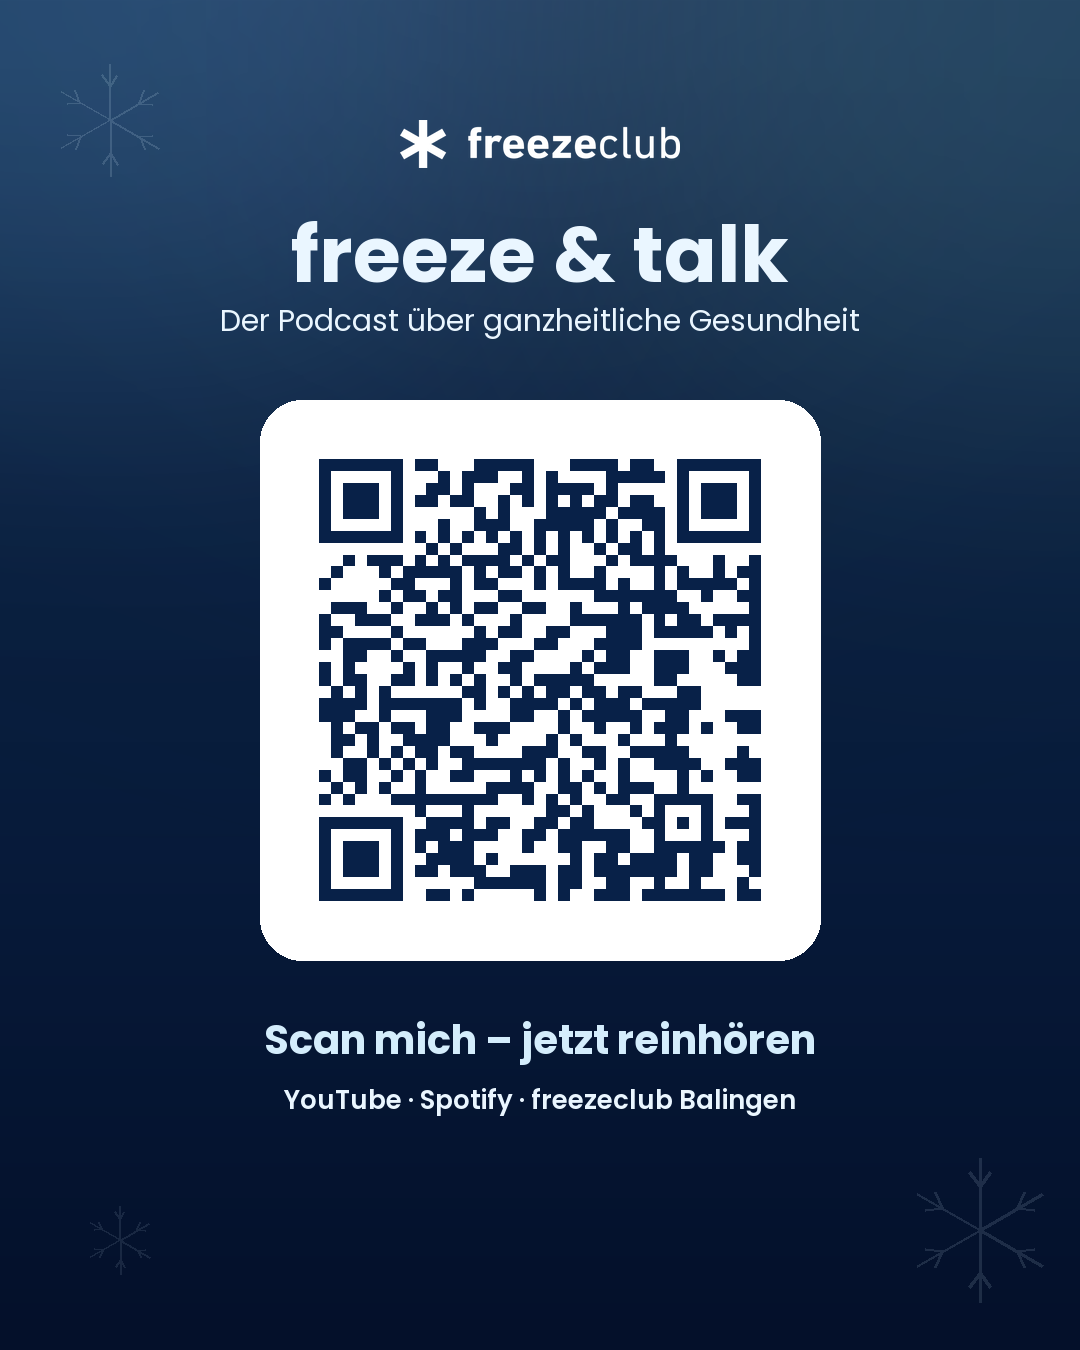
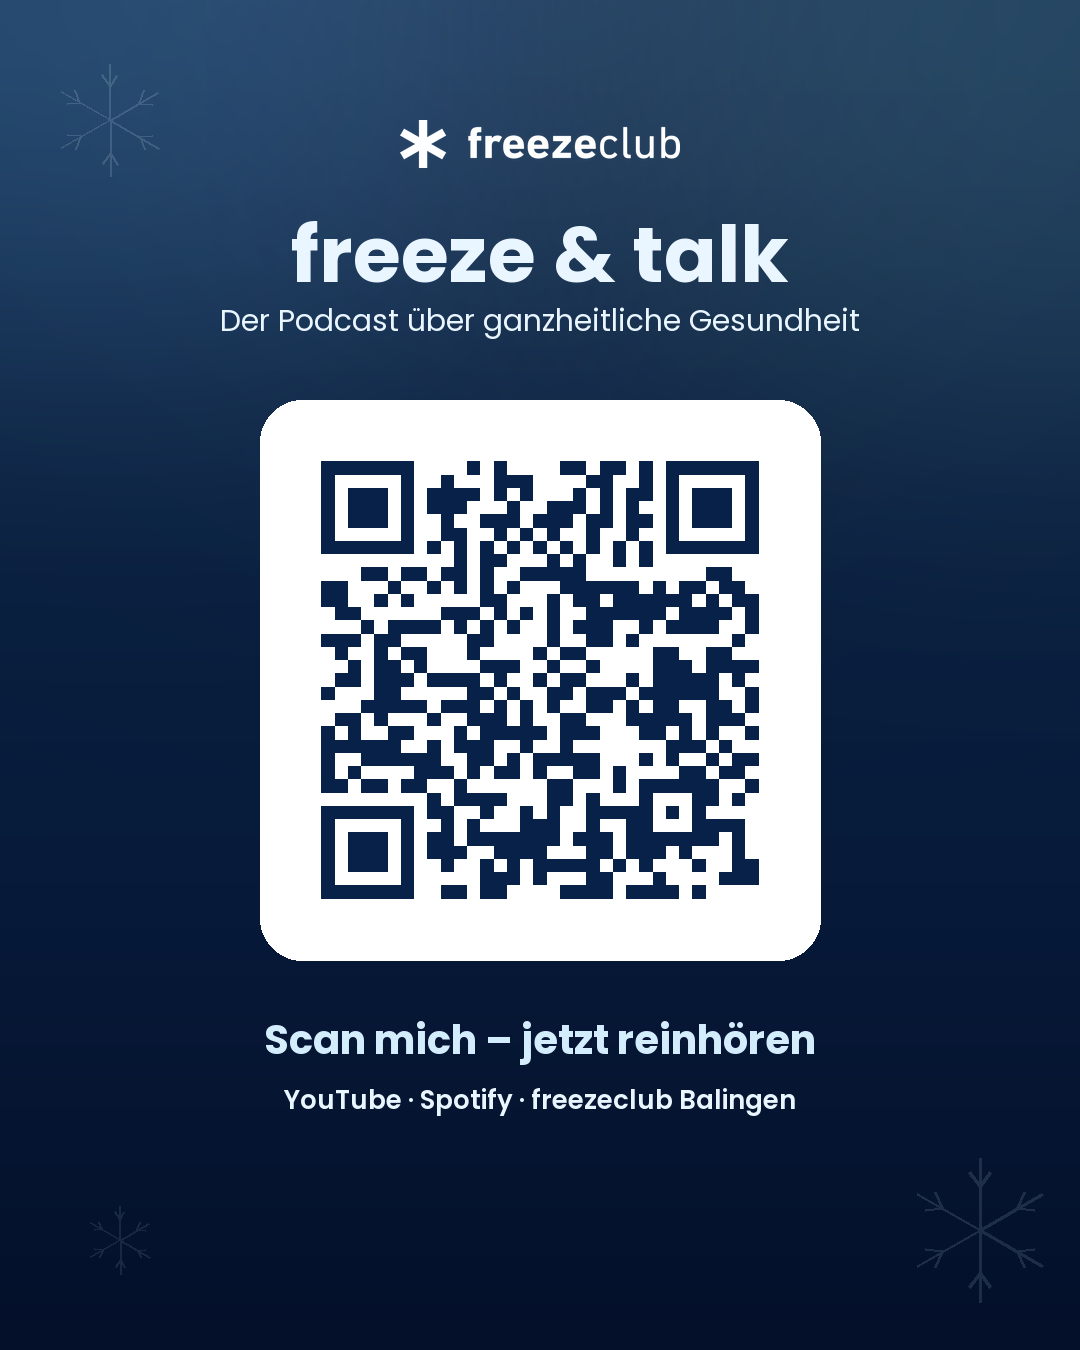
Meta-Tags & QR auf finale URL (freezeclub.github.io)

Changed region(s): [[0.275, 0.3422, 0.7028, 0.6844]]

diff --git a/index.html b/index.html
@@ -10,22 +10,18 @@
 <meta name="apple-mobile-web-app-status-bar-style" content="black-translucent" />
 <meta name="format-detection" content="telephone=no" />
 
-<!-- ============================================================= -->
-<!--  TEILEN-VORSCHAU (Instagram / WhatsApp / Facebook ...)         -->
-<!--  WICHTIG: og:image & og:url nach dem Hochladen auf die         -->
-<!--  ECHTE absolute Domain umstellen, z.B.                          -->
-<!--  https://link.freezeclub.de/assets/og-image.png                -->
-<!-- ============================================================= -->
+<!-- Teilen-Vorschau (Instagram / WhatsApp / Facebook ...) -->
 <meta property="og:title" content="freeze & talk – Der Podcast" />
 <meta property="og:description" content="Der Podcast über ganzheitliche Gesundheit aus dem freezeclub Balingen. Neue Folgen auf YouTube & Spotify." />
 <meta property="og:type" content="website" />
-<meta property="og:image" content="assets/og-image.png" />
+<meta property="og:url" content="https://freezeclub.github.io/" />
+<meta property="og:image" content="https://freezeclub.github.io/assets/og-image.png" />
 <meta property="og:image:width" content="1200" />
 <meta property="og:image:height" content="630" />
 <meta name="twitter:card" content="summary_large_image" />
 <meta name="twitter:title" content="freeze & talk – Der Podcast" />
 <meta name="twitter:description" content="Der Podcast aus dem freezeclub Balingen. Neue Folgen auf YouTube & Spotify." />
-<meta name="twitter:image" content="assets/og-image.png" />
+<meta name="twitter:image" content="https://freezeclub.github.io/assets/og-image.png" />
 
 <link rel="preconnect" href="https://fonts.googleapis.com" />
 <link rel="preconnect" href="https://fonts.gstatic.com" crossorigin />
